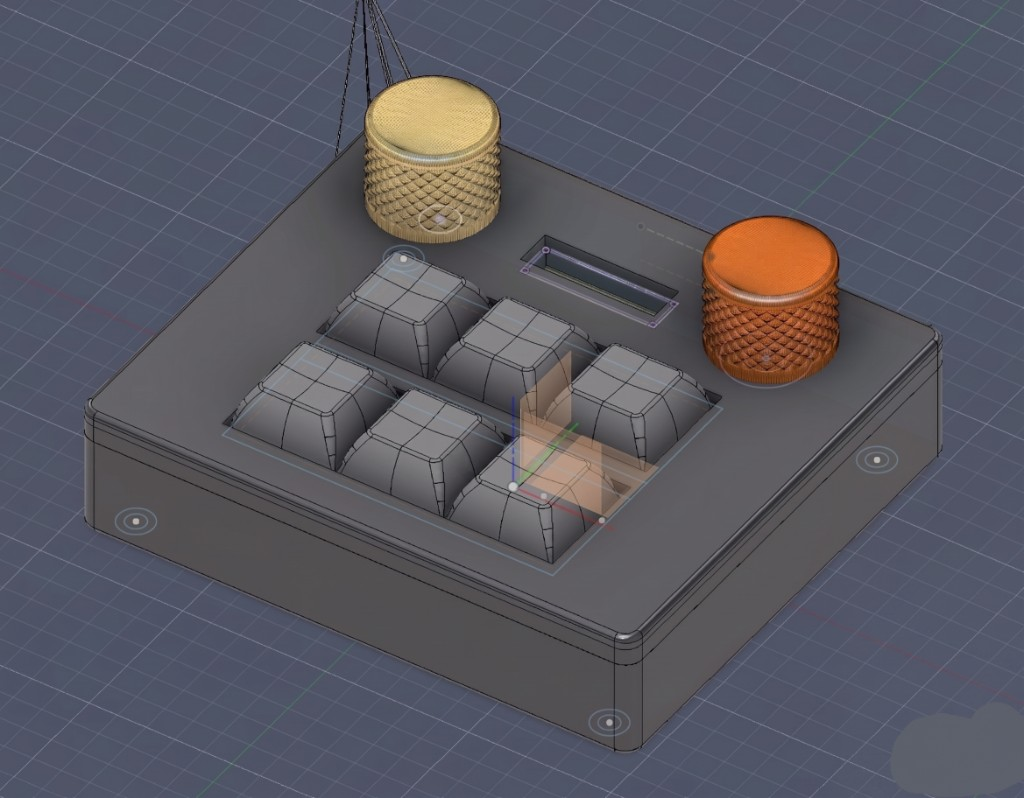
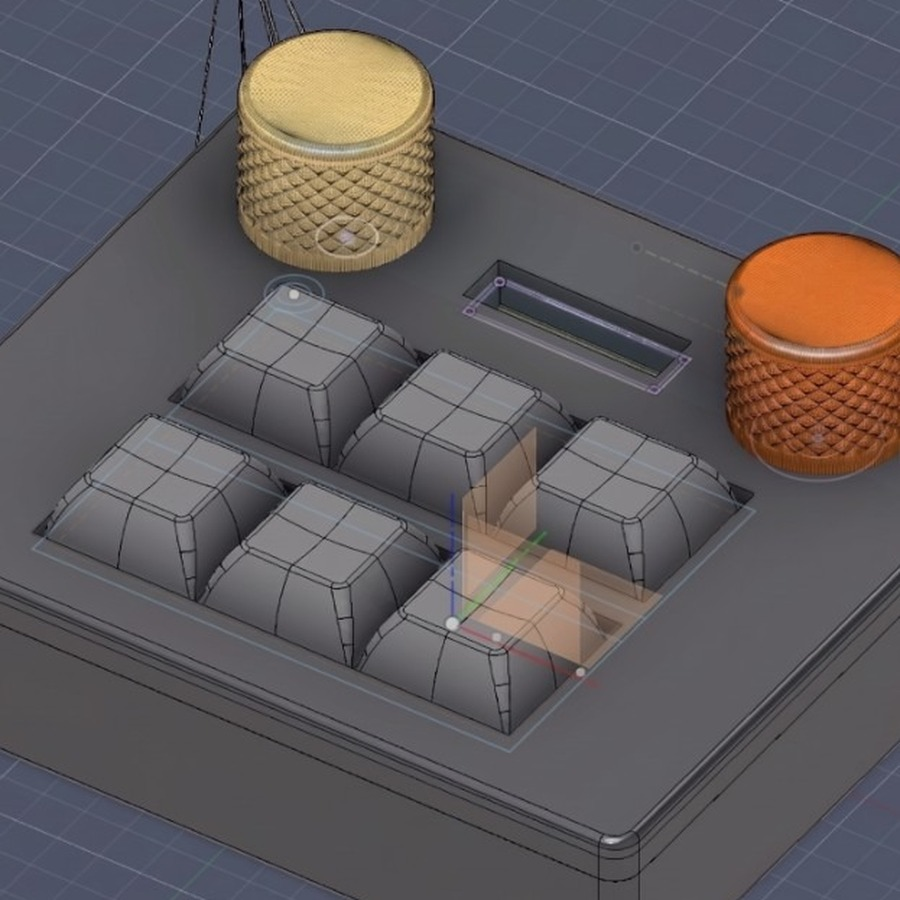
Crop project tiles and keep full images for popups.
Square-crop SignBridge, AkiPad, and Sylla Sync thumbnails while serving uncropped photos in the detail modal.

diff --git a/js/main.js b/js/main.js
@@ -7,7 +7,7 @@
     },
     signbridge: {
       title: "SignBridge",
-      image: "images/signbridge.jpg",
+      image: "images/signbridge-full.jpg",
       imageAlt:
         "SignBridge 3D-printed yellow ASL glasses with forward camera module",
       text: "Wearable smart glasses that translate American Sign Language into English in real time. Built at HackED 2026 with a 3D-printed frame, camera module, MediaPipe hand tracking, and a TensorFlow model—plus toggle logic for fingerspelling vs. full-word signs.",
@@ -24,7 +24,7 @@
     },
     akipad: {
       title: "AkiPad V1",
-      image: "images/akipad.jpg",
+      image: "images/akipad-full.jpg",
       imageAlt:
         "AkiPad V1 CAD model — six keys, dual encoders, and OLED cutout",
       text: "A compact engineering macropad with 6 custom keys, dual rotary encoders, a 0.91\" OLED, and RGB NeoPixel lighting. Designed the PCB and case in KiCAD, wrote the firmware in KMK, and packaged files for fabrication.",
@@ -50,7 +50,7 @@
     },
     syllasync: {
       title: "Sylla Sync",
-      image: "images/syllasync.jpg",
+      image: "images/syllasync-full.jpg",
       imageAlt:
         "Sylla Sync — Canvas to PDF to dashboard to Discord workflow",
       text: "Python automation tool that consolidates university coursework from Canvas LMS and syllabus PDFs into a single assignment tracker — exported to Google Sheets or Excel, with an optional Discord weekly digest. Pulls Canvas assignments, auto-downloads syllabus PDFs, parses deadlines with regex and Gemini AI fallback, and smart-merges into a tracker without wiping manual progress.",
